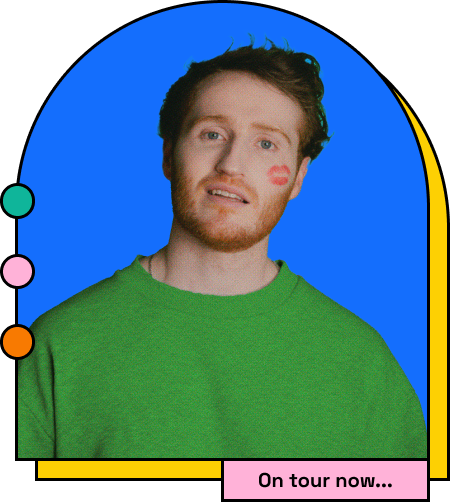
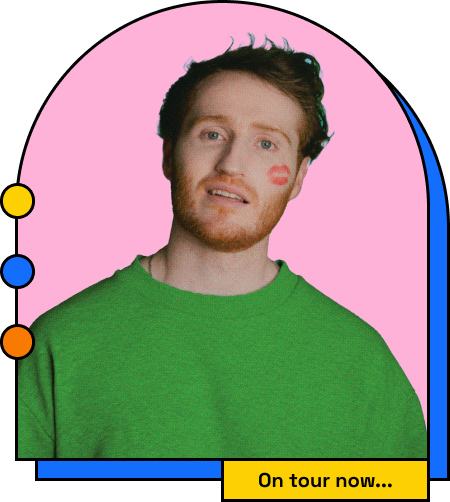
feat: update hero colors to match new design

diff --git a/apps/web/src/components/hero/hero.tsx b/apps/web/src/components/hero/hero.tsx
@@ -5,15 +5,15 @@ const Hero = () => {
   return (
     <div className="container mt-52">
       <div className="relative">
-        <section className="relative z-10 flex flex-col items-center justify-between gap-10 border-4 border-black bg-white px-10 py-10 shadow-md sm:flex-row sm:px-20">
+        <section className="relative z-10 flex flex-col items-center justify-between gap-10 border-4 border-black bg-green px-10 py-10 shadow-md sm:flex-row sm:px-20">
           <div className="max-w-max font-heading md:block">
-            <p className="text-3xl font-bold lg:text-4xl  xl:text-5xl">
-              In a world of <span className="text-green">wannabes</span>,
+            <p className="text-3xl font-bold text-white lg:text-4xl xl:text-5xl">
+              In a world of wannabes,
               <br />
-              <span className="text-blue">Woods</span>
+              Woods
               {` is the real deal"`}
             </p>
-            <p className="mt-4 font-medium text-gray lg:text-xl">
+            <p className="mt-4 font-medium text-yellow lg:text-xl">
               Evening Standard
             </p>
           </div>
